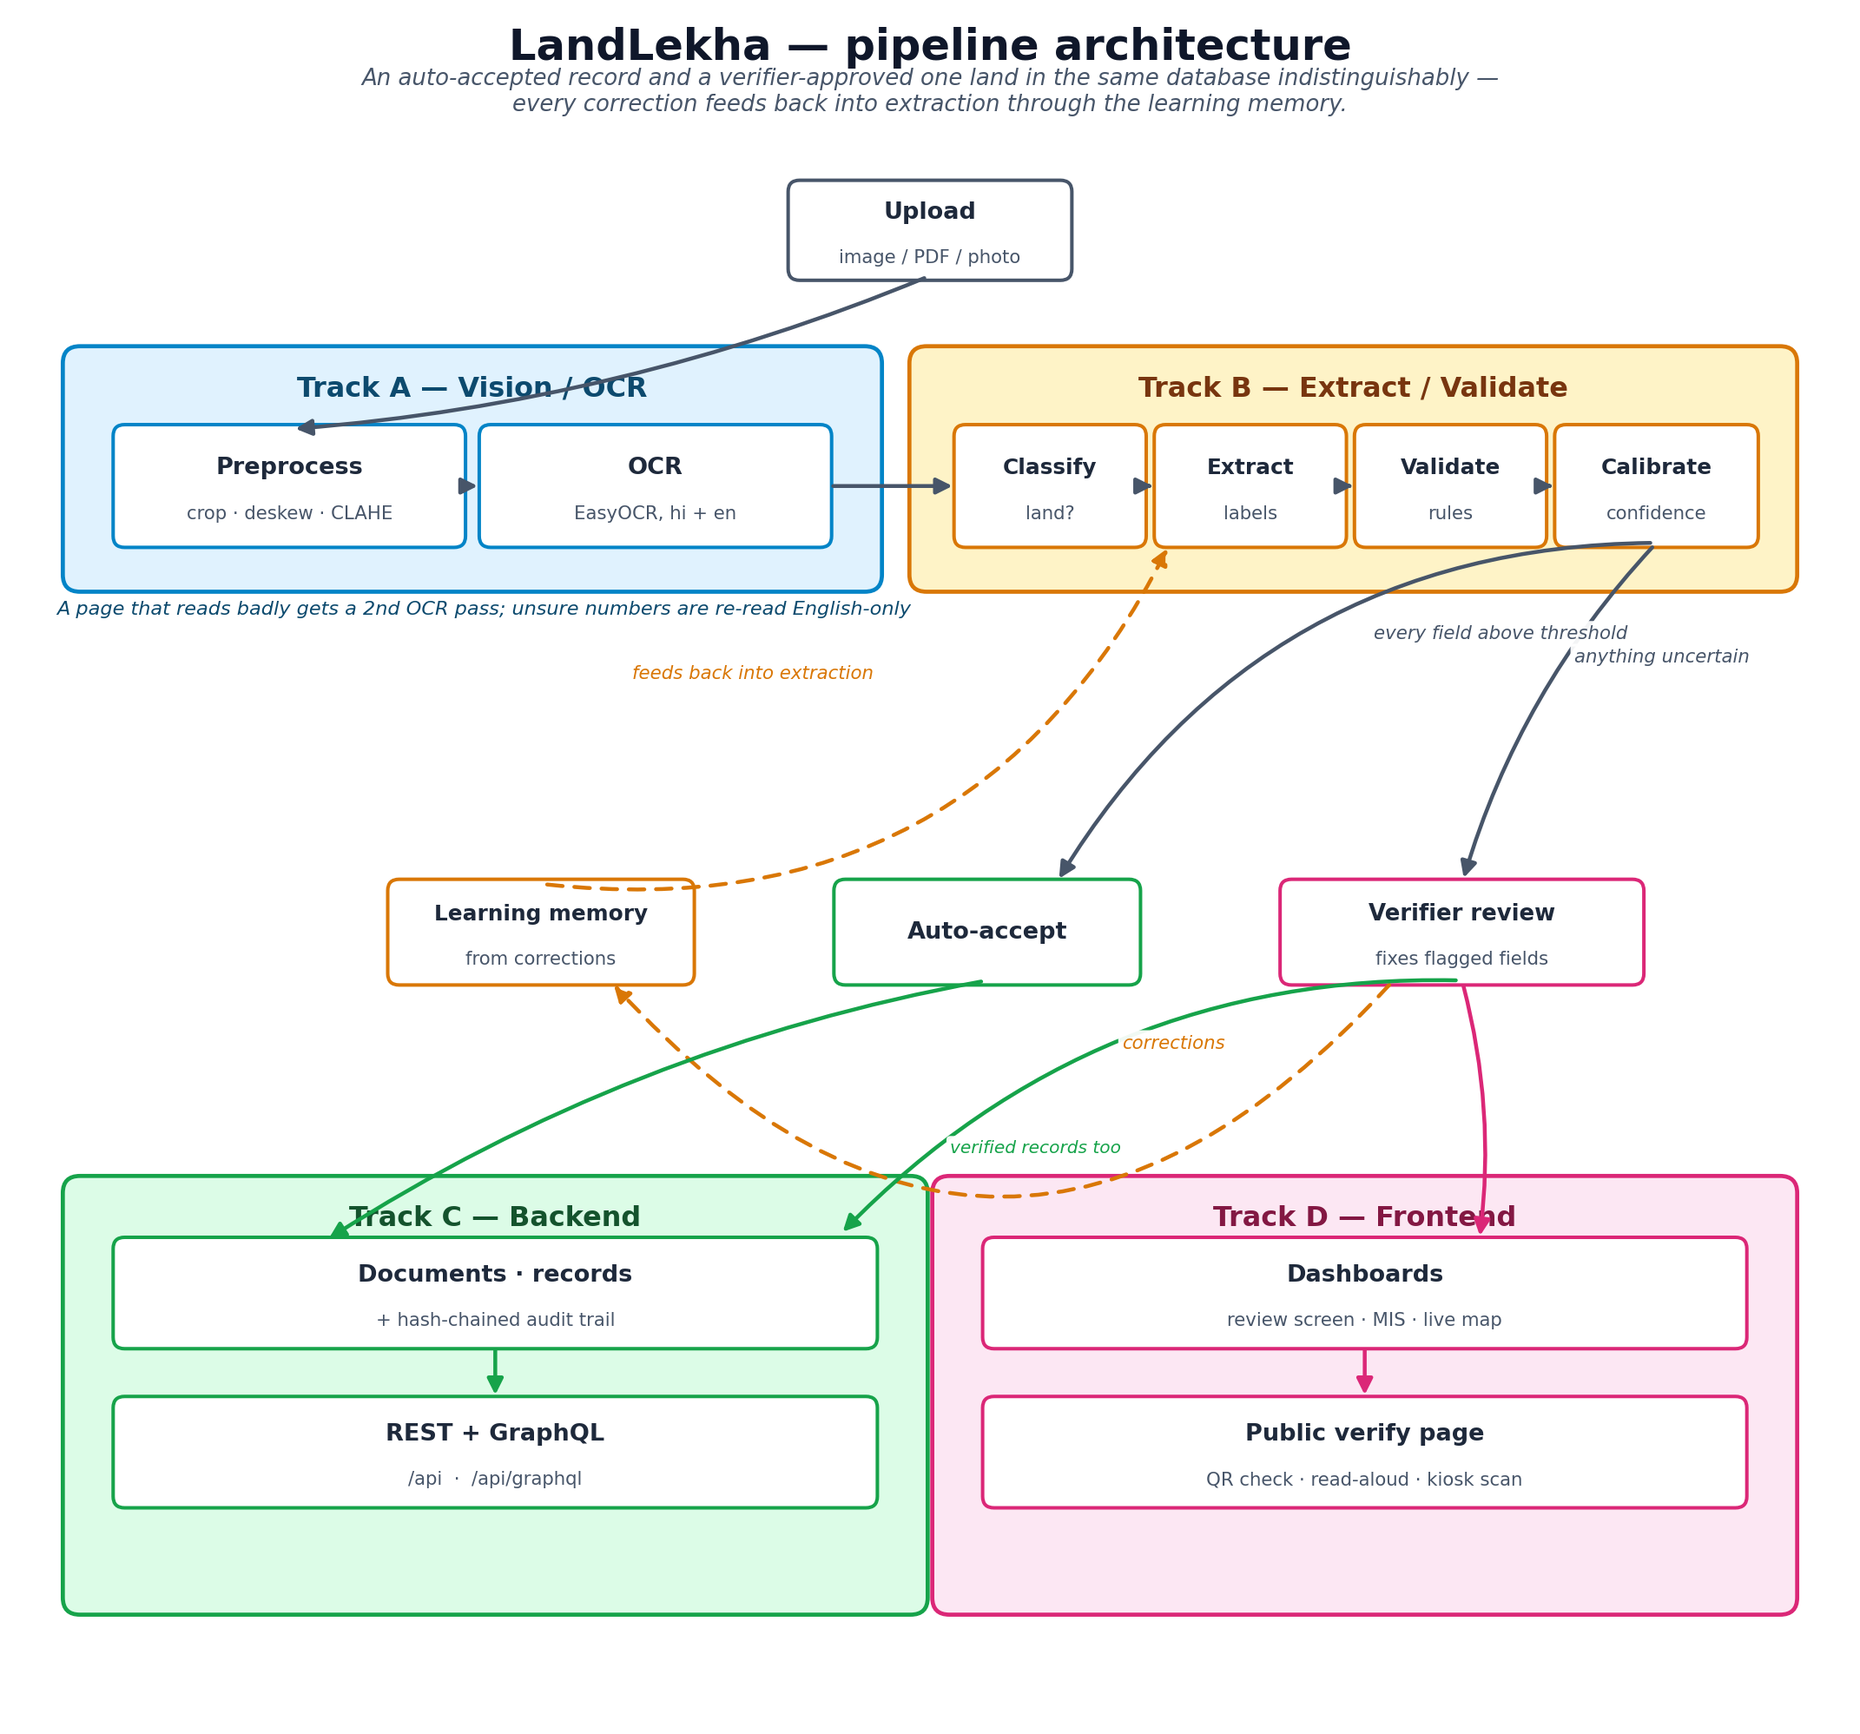
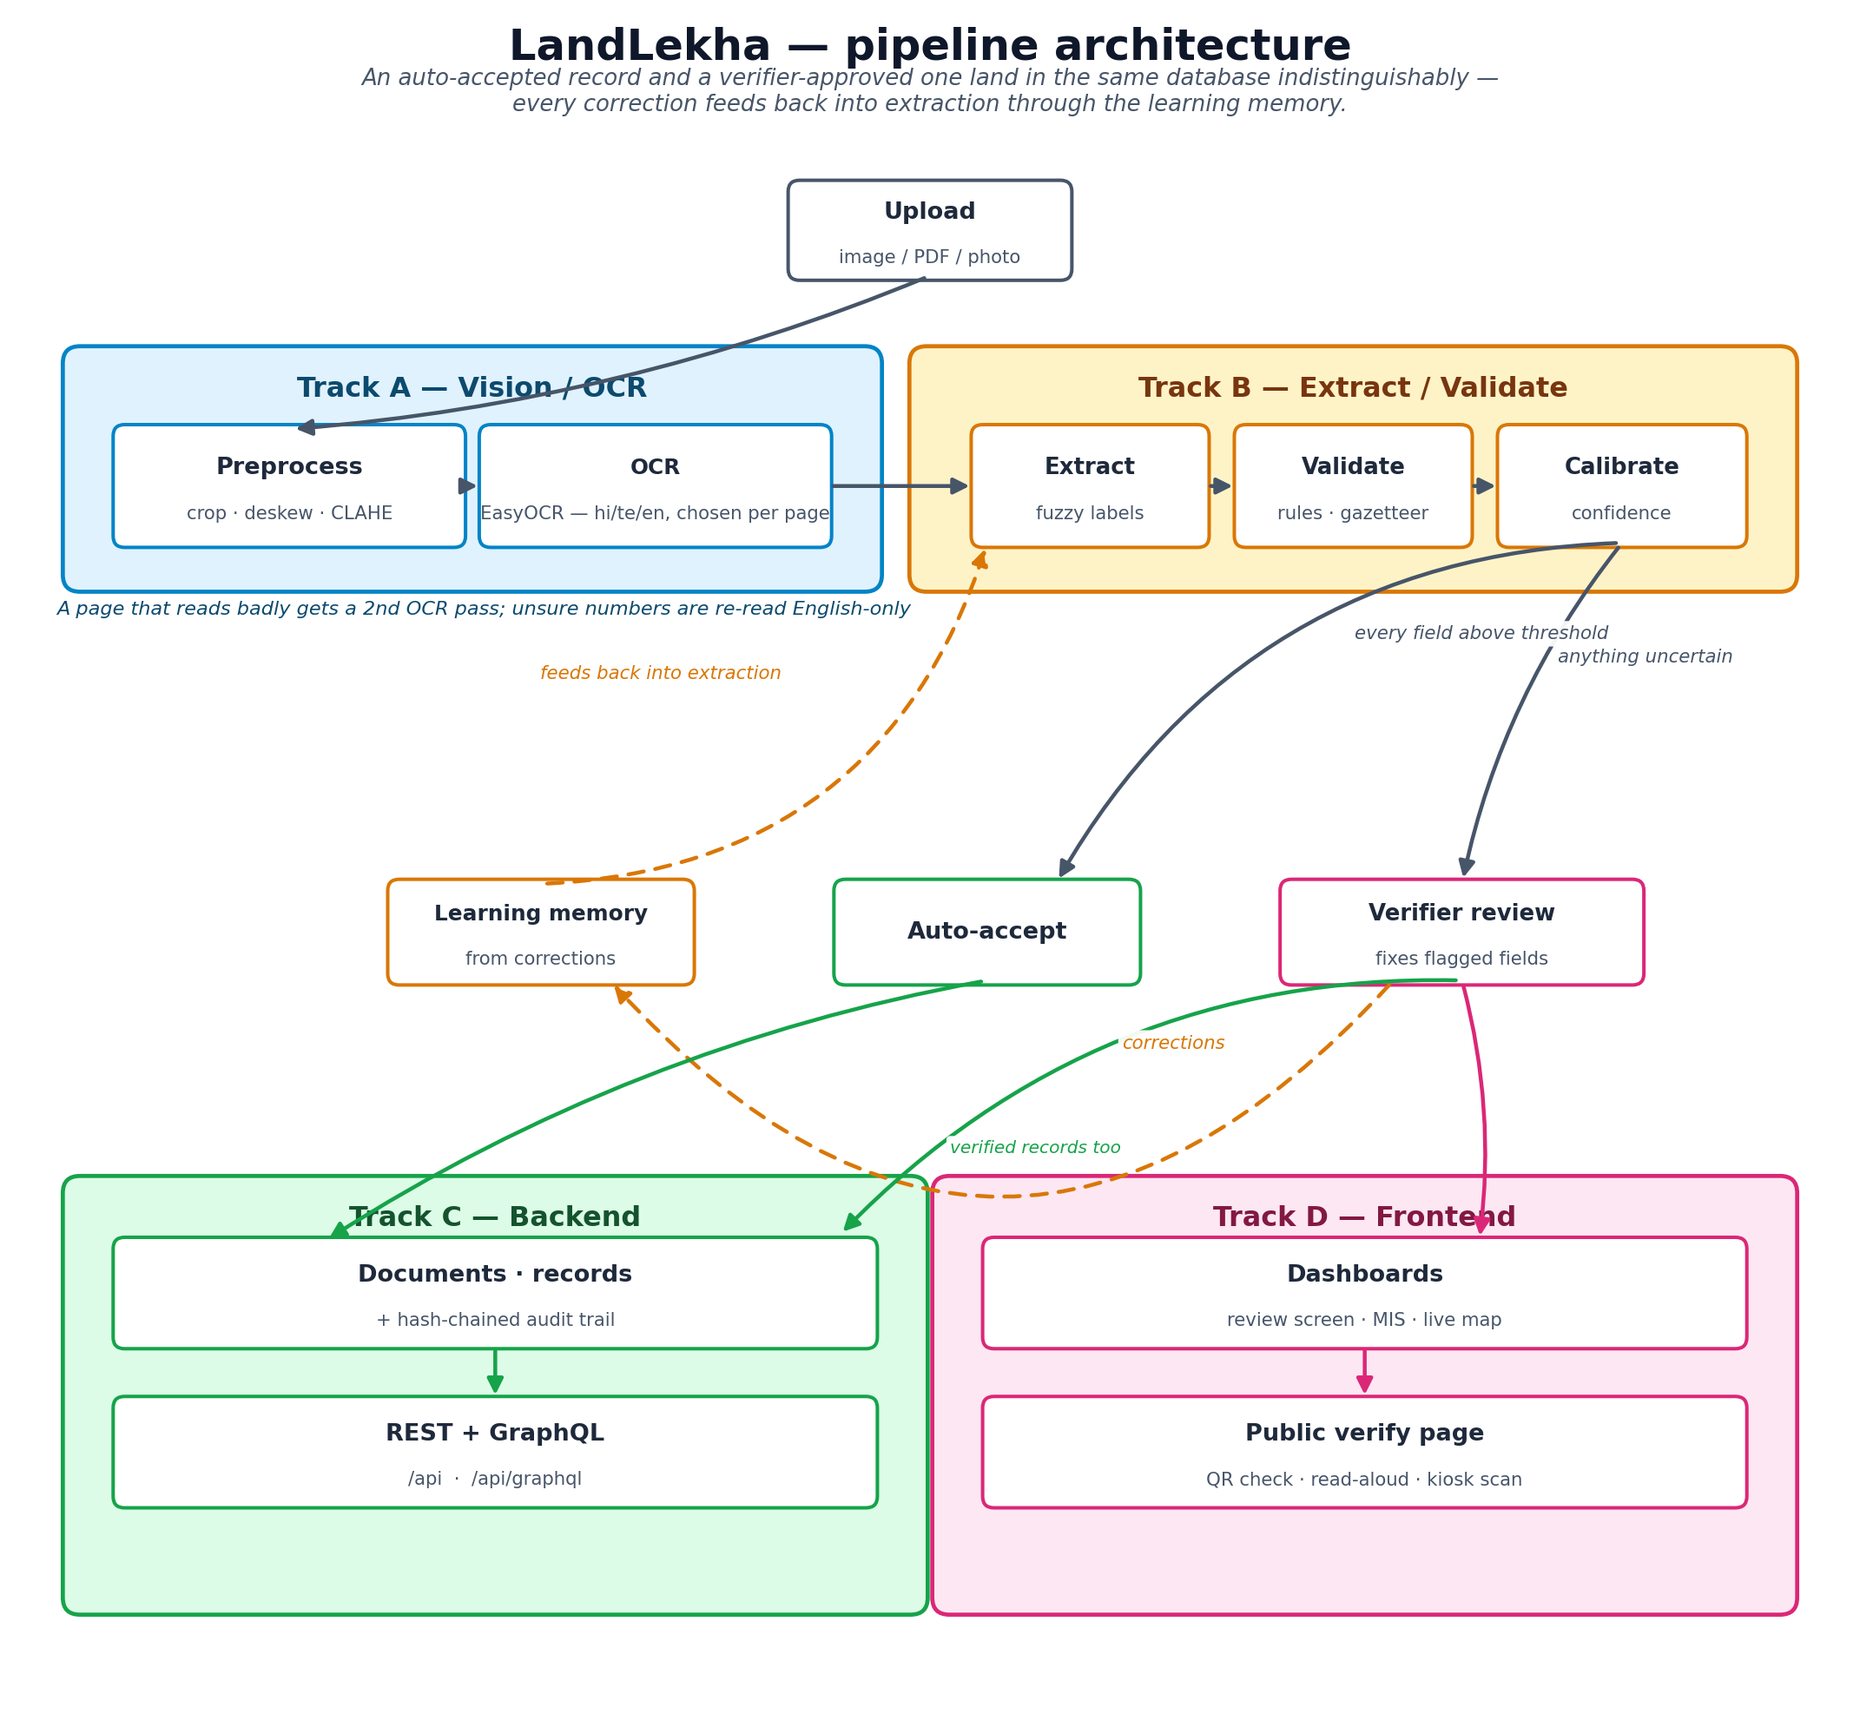
refresh results folder for the classifier retraction, real documents, duplicates and reliability

diff --git a/results/SUMMARY.md b/results/SUMMARY.md
@@ -4,6 +4,11 @@ Everything here is copied from `eval/results/*.md` (the actual measured output) 
 invented. Charts are in `charts/`, real app screenshots are in `screenshots/`. Organized below
 by suggested slide, so you can lift a slide's worth of content in one pass.
 
+**This folder was refreshed on 2026-09-23 after a large update landed** — the land-document
+classifier was deliberately removed (see below), real documents were measured for the first
+time, and duplicate detection + confidence reliability were newly measured. If you see an older
+copy of this folder floating around, use this one.
+
 ---
 
 ## Slide: "Architecture" → `charts/00_architecture.png`
@@ -21,10 +26,12 @@ The pipeline end to end, coloured by which track owns each part (matches README'
 | **88.1%** | Field accuracy across all 15 fields, on 40 held-out documents never seen during tuning |
 | **96.4%** | Precision of the fields the system does NOT flag for review — i.e. when it doesn't ask a human to check, it's right 96.4% of the time |
 | **15.3%** | Share of fields flagged for a human — the verifier checks about 1 field in 7, not the whole document |
-| **100%** | Accuracy, precision and recall of the land-document classifier (105 land + 10 non-land pages, 115 real OCR readings) |
+| **0.0245** | Expected calibration error — the confidence number is honest, not just optimistic |
 | **84.3% vs 10.4%** | Field accuracy on phone photos the quality gate accepted vs. the ones it sent back for a retake — the two groups never overlap |
+| **32 of 40, 0 false positives** | The same parcel, re-photographed, is found again — and a different parcel is never wrongly matched, across 1,560 comparisons |
+| **18.2%** | Field accuracy on the first 3 **real** documents — low, honestly reported, and explained (see below) |
 | **6 states, 71 districts, 33,942 villages** | Real government village data (Ministry of Panchayati Raj LGD directory), not made up |
-| **82 + 34** | Backend + frontend automated tests, all green in CI |
+| **149 + 37** | Backend + frontend automated tests, all green in CI |
 | **Live** | http://65.2.234.77:8000 — actually deployed, AWS EC2 + Docker + Postgres |
 
 ---
@@ -39,7 +46,7 @@ Three separate evaluation splits, so the number isn't cherry-picked from one luc
 | **Test (held-out — the honest number)** | **88.1%** | 87.5% | **96.4%** | 40 |
 | Multi-owner (hardest split — several co-owners/parcels per khata) | 85.2% | 83.8% | 94.3% | 30 |
 
-**Talking point**: test came out slightly *better* than dev, and the threshold was deliberately set to trade some auto-accept rate for a safety margin (see "How the threshold was chosen" below) — this isn't a number that got lucky on tuning data.
+**Talking point**: test came out slightly *better* than dev, and the threshold was deliberately set to trade some auto-accept rate for a safety margin — this isn't a number that got lucky on tuning data.
 
 ---
 
@@ -58,7 +65,7 @@ Per-field accuracy, test split (40 documents), sorted low to high:
 | district | 95.0% | state | 95.0% |
 | land_classification | 95.0% | | |
 
-**Talking point**: the weakest fields (khasra number, plot area) are exactly the ones with the most varied handwritten formats and OCR digit confusion — which is *why* the project built a second, English-only re-read pass specifically for numbers (see Roadmap/experiments below).
+**Talking point**: the weakest fields (khasra number, plot area) are exactly the ones with the most varied handwritten formats and OCR digit confusion — which is *why* the project built a second, English-only re-read pass specifically for numbers.
 
 ---
 
@@ -88,18 +95,6 @@ Across all 17 phone photos in the three evaluation splits:
 
 ---
 
-## Slide: "Is this even a land record?" → `charts/05_classifier_confusion_matrix.png`
-
-Before a single field is extracted, a rule ensemble decides whether the page is a land record at all:
-
-- Measured on **115 real OCR readings**: 105 actual land pages + 10 deliberately-not-land pages (bills, letters, certificates, newspapers, photos)
-- **105/105 land pages kept, 10/10 non-land pages refused, 0 mistakes**
-- 100% accuracy, precision, recall, F1 = 1.000
-
-**Talking point**: a bank statement or an electricity bill photographed by mistake never reaches the register with a fabricated khasra number. Honest caveat: the non-land test set is only 14 pages and synthetic — this proves the mechanism works, not that it's bulletproof against every kind of paper an office would see.
-
----
-
 ## Slide: "Human-in-the-loop, not human-does-everything" → `charts/06_document_routing.png`
 
 Of 40 test documents:
@@ -125,6 +120,60 @@ A khata can have several co-owners and several parcel (khasra) rows — most sys
 
 ---
 
+## Slide: "Real documents — the honest result" → `charts/08_real_documents_result.png`
+
+The first 3 real land documents ever put through the pipeline: registered deeds from Andhra
+Pradesh, West Bengal and Haryana (not Khataunis — the record type this was built around).
+
+- Fields right: **1 of 11 (9.1%)** on the first run → **2 of 11 (18.2%)** after fixing one bug the same documents exposed
+- Document type named correctly: **0 of 3**
+- Auto-accepted into the register: **0 of 3** — every one went to a human
+
+**Why it's this low, in one sentence each**: (1) 8 of the 11 ground-truth fields are places in West Bengal/Haryana, which aren't in the master data yet; (2) the recognizer garbled printed English on stamp paper badly enough that "DEED OF GIFT" came back as `DDDD OD GIDT`; (3) page one of a deed carries the stamp and parties, not the parcel schedule — the field that matters is on a page nobody supplied.
+
+**Talking point — lead with this, don't bury it**: low as this looks, it is the system working correctly. Nothing was invented, nothing was auto-accepted, every document went to a person. Measuring this also found and fixed 4 real bugs (a unit-conversion bug that made land parcels 20× too big, a units crash, an orientation misread, unrecognized deed titles) that synthetic data never would have caught. This is exactly the kind of result a judge respects more than a suspiciously clean number — say so explicitly.
+
+> Full writeup: `eval/results/real.md`. The documents themselves are kept off the public repository for privacy.
+
+---
+
+## Slide: "Finding the same parcel twice" → `charts/09_duplicate_detection.png`
+
+Not just "same file uploaded twice" (that's a hash check) — the harder case: the **same parcel**
+arriving again as a **different photograph**, read slightly differently by OCR each time.
+
+- **32 of 40 (80%)** duplicate parcels found on the test split
+- **0 false matches in 1,560 comparisons** — a different parcel is never wrongly flagged as the same one
+- All 8 misses traced to a missing village or khasra reading, not a scoring bug — 6 of 8 would be found if that one field had been read at all
+
+**Talking point**: the asymmetry is deliberate — a missed duplicate just goes to a verifier like any other document; a *false* duplicate would block a genuine record from being registered. The system is tuned to never do the second one.
+
+---
+
+## Slide: "Is the confidence number honest?" → `charts/10_confidence_reliability.png`
+
+Measured on 516 fields from the 40 held-out test documents — does a 0.9 confidence actually mean "right 90% of the time"?
+
+- **Expected calibration error: 0.0245** — close to zero is good
+- The bin that matters holds 442 of 516 fields: claims 95.8%, actually right 96.4% — a 0.6-point gap
+- One real weakness found: the 0.8–0.9 bucket is overconfident by 12 points (measured, not hidden)
+
+**Talking point**: this is the difference between "we show a confidence score" and "the confidence score means something" — most systems do the first and call it done.
+
+---
+
+## Retracted, on purpose: the land-document classifier
+
+An earlier version of this pipeline had a separate "is this a land record?" classifier, measured
+at 100% on 115 real OCR readings. **It was removed** — the team's own judgment was that it was a
+claim PS 26018 never asked for. Routing now works more simply: a page with none of the required
+fields cannot be auto-accepted, reaches a verifier with one reason saying so, and no fields are
+invented. This is worth one sentence in a demo if asked "what changed" — it shows the team
+retracts a good-looking number when it doesn't hold up to scrutiny, which is a stronger signal
+than the number itself would have been.
+
+---
+
 ## Slide: screenshots (use `screenshots/*.jpg` directly)
 
 | File | Shows |
@@ -137,16 +186,19 @@ A khata can have several co-owners and several parcel (khasra) rows — most sys
 | `6-public-check-phone.jpg` | Public QR check on a phone — no login needed |
 | `7-review-hindi.jpg` | The same review screen in Hindi, one click away |
 
+(These screenshots predate a few newer screens — the register-comparison card and the kiosk QR
+scan page aren't pictured yet. The live demo has them.)
+
 ---
 
 ## Slide: "What makes this different" (USPs — pick 3-4 for time)
 
-1. **It checks the page is a land record before trusting anything on it** — 100% on the classifier (above).
-2. **Calibrated confidence, not raw OCR score** — raw OCR confidence for Devanagari is badly calibrated (correct text often scores only 0.4–0.6); the system fits a proper model on held-out data instead.
-3. **The system learns.** A verifier's correction is remembered and reapplied automatically the next time the same misreading would happen — proven by an automated test, not just claimed.
-4. **Tamper-evident audit trail.** Every action is hash-chained to the one before it; editing or deleting a past entry is detectable.
-5. **Citizen-facing, not just office-facing.** The public verify page reads a record aloud (Hindi or English) for someone who reads with difficulty, and a kiosk-mode camera scan works from any device, not just a citizen's own smartphone.
-6. **Actually deployed.** Not just "it runs on my laptop" — a real AWS EC2 instance, Docker Compose, Postgres, live right now.
+1. **Calibrated confidence, not raw OCR score** — raw OCR confidence for Devanagari is badly calibrated (correct text often scores only 0.4–0.6); the system fits a proper model on held-out data, and that model's honesty is itself measured (ECE 0.0245).
+2. **The system learns.** A verifier's correction is remembered and reapplied automatically the next time the same misreading would happen — proven by an automated test, not just claimed.
+3. **Tamper-evident audit trail.** Every action is hash-chained to the one before it; editing or deleting a past entry is detectable.
+4. **Citizen-facing, not just office-facing.** The public verify page reads a record aloud (Hindi or English) for someone who reads with difficulty, and a kiosk-mode camera scan works from any device, not just a citizen's own smartphone.
+5. **Actually deployed.** Not just "it runs on my laptop" — a real AWS EC2 instance, Docker Compose, Postgres, live right now.
+6. **Tested on real paper and honest about the result.** Most hackathon demos never leave synthetic data. This one did, scored 18.2%, said so, and used it to fix four real bugs.
 
 Full version with more detail and every number's source: `docs/usps.md`.
 
@@ -154,12 +206,14 @@ Full version with more detail and every number's source: `docs/usps.md`.
 
 ## Slide: "Honest limitations" (include this — it builds credibility, not doubt)
 
-- All measured numbers above are on **synthetic data** — no real land record has been tested yet (though the tool to do so exists: `/real-samples` in the app).
-- Phone photos are the weakest input; it's a recognition-model limitation, not something more preprocessing fixes.
+- **Real-world accuracy is 18.2% on the 3 real documents measured so far** (above) — the synthetic numbers above describe synthetic data well; real paper is harder and less tested.
+- Phone photos are the weakest synthetic-data input; it's a recognition-model limitation, not something more preprocessing fixes.
 - About half of remaining field errors are a *confidently wrong* reading (e.g. `1805/1` misread as `1305/1` at 0.95 confidence) — re-reading doesn't catch this.
-- Master data's Hindi village spellings (the original 4 Devanagari-script states) are algorithmically transliterated, not verified by a native speaker; Andhra Pradesh coverage is partial (~54% district, ~7% tehsil, ~2% village).
+- Master data covers 6 states; West Bengal and Haryana (2 of the first 3 real documents) aren't in it yet, so 8 of 11 real-document fields could never be validated even if read perfectly.
+- Master data's Hindi village spellings (the 4 original Devanagari-script states) are algorithmically transliterated, not verified by a native speaker; Andhra Pradesh coverage is partial.
 - Speed is 30–60s/page on CPU; 1–2s on GPU (no GPU available to test on).
 - Read-aloud and the kiosk QR scan pass automated checks but haven't been confirmed by a person with real audio/a real camera yet.
+- The land-document classifier was built, measured at 100%, and deliberately retracted (above) — a reminder that a good number isn't the same as a claim worth keeping.
 
 Full list: `README.md`'s "Honest limitations" section.
 
@@ -179,13 +233,16 @@ If a network blocks the raw IP: `http://ec2-65-2-234-77.ap-south-1.compute.amazo
 
 | Claim | Source file |
 | --- | --- |
-| All accuracy/CER numbers | `eval/results/test.md`, `dev.md`, `multi.md` |
-| Classifier confusion matrix | `eval/results/classification.md` |
-| Phone-photo accepted/rejected split | `docs/usps.md`, section 2 |
-| Which OCR changes were adopted vs rejected, and why | `eval/results/experiments.md` (13 experiments, each with a number) |
+| All synthetic accuracy/CER numbers | `eval/results/test.md`, `dev.md`, `multi.md` |
+| Real-document result (18.2%) | `eval/results/real.md` |
+| Duplicate detection | `eval/results/duplicates.md` |
+| Confidence reliability / ECE | `eval/results/reliability.md` |
+| Handwriting-specific scope | `eval/results/handwriting.md` |
+| Telugu reader / per-page language choice | `eval/results/telugu.md` |
+| Which OCR changes were adopted vs rejected, and why | `eval/results/experiments.md` |
 | Master data village/district/state counts | `backend/extraction/master/gazetteer.json` (run `python -c "import json; g=json.load(open('backend/extraction/master/gazetteer.json',encoding='utf-8')); print(len(g['states']))"` to reproduce) |
 | Live deployment details | `DEPLOYMENT.md` |
 | Full USP writeups with every number sourced | `docs/usps.md` |
 | Test counts | `python -m pytest tests -q` (backend), `cd frontend && npm test` (frontend) |
 
-Reproduce any number yourself: `python eval/evaluate.py --split test` (or `dev`/`multi`).
+Reproduce any number yourself: `python eval/evaluate.py --split test` (or `dev`/`multi`), `python eval/real_eval.py`, `python eval/duplicates_eval.py --split test`, `python eval/reliability.py --split test`.
